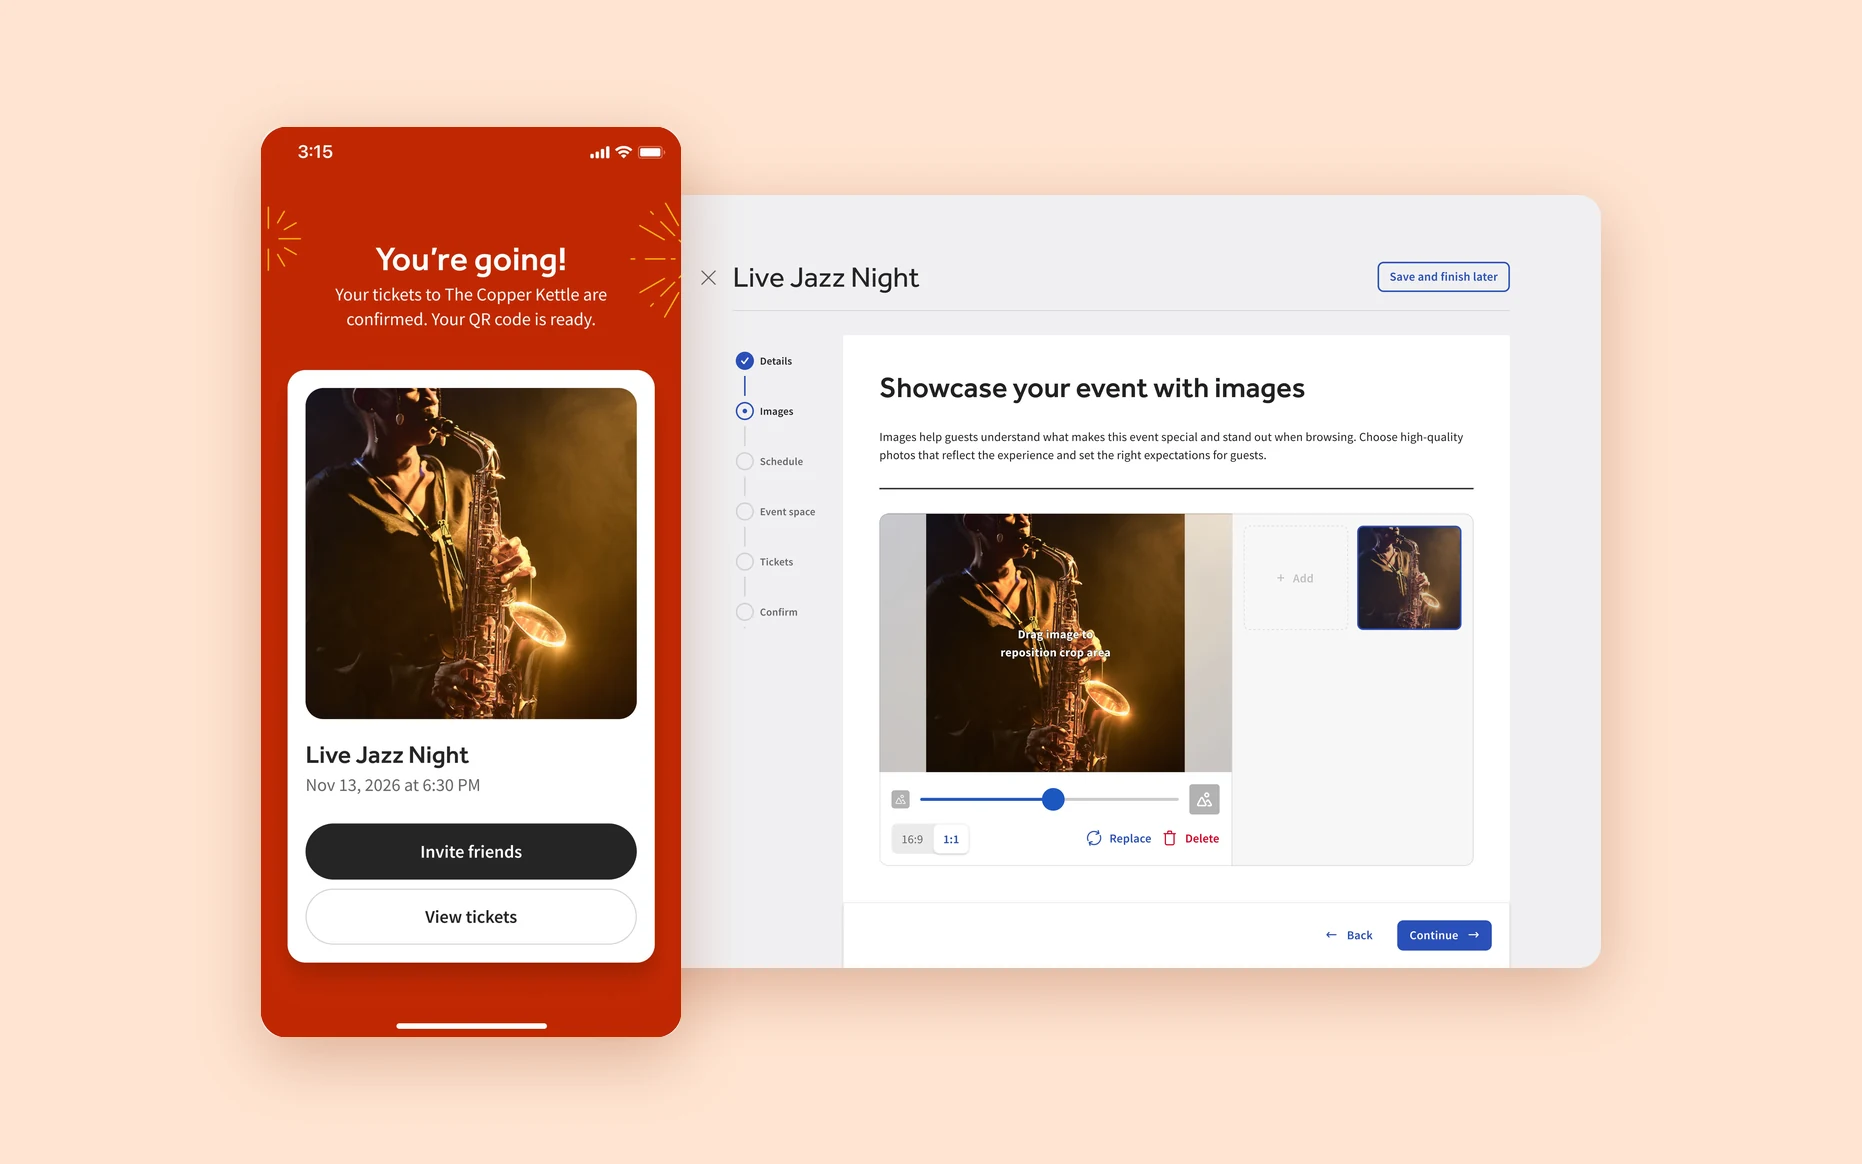
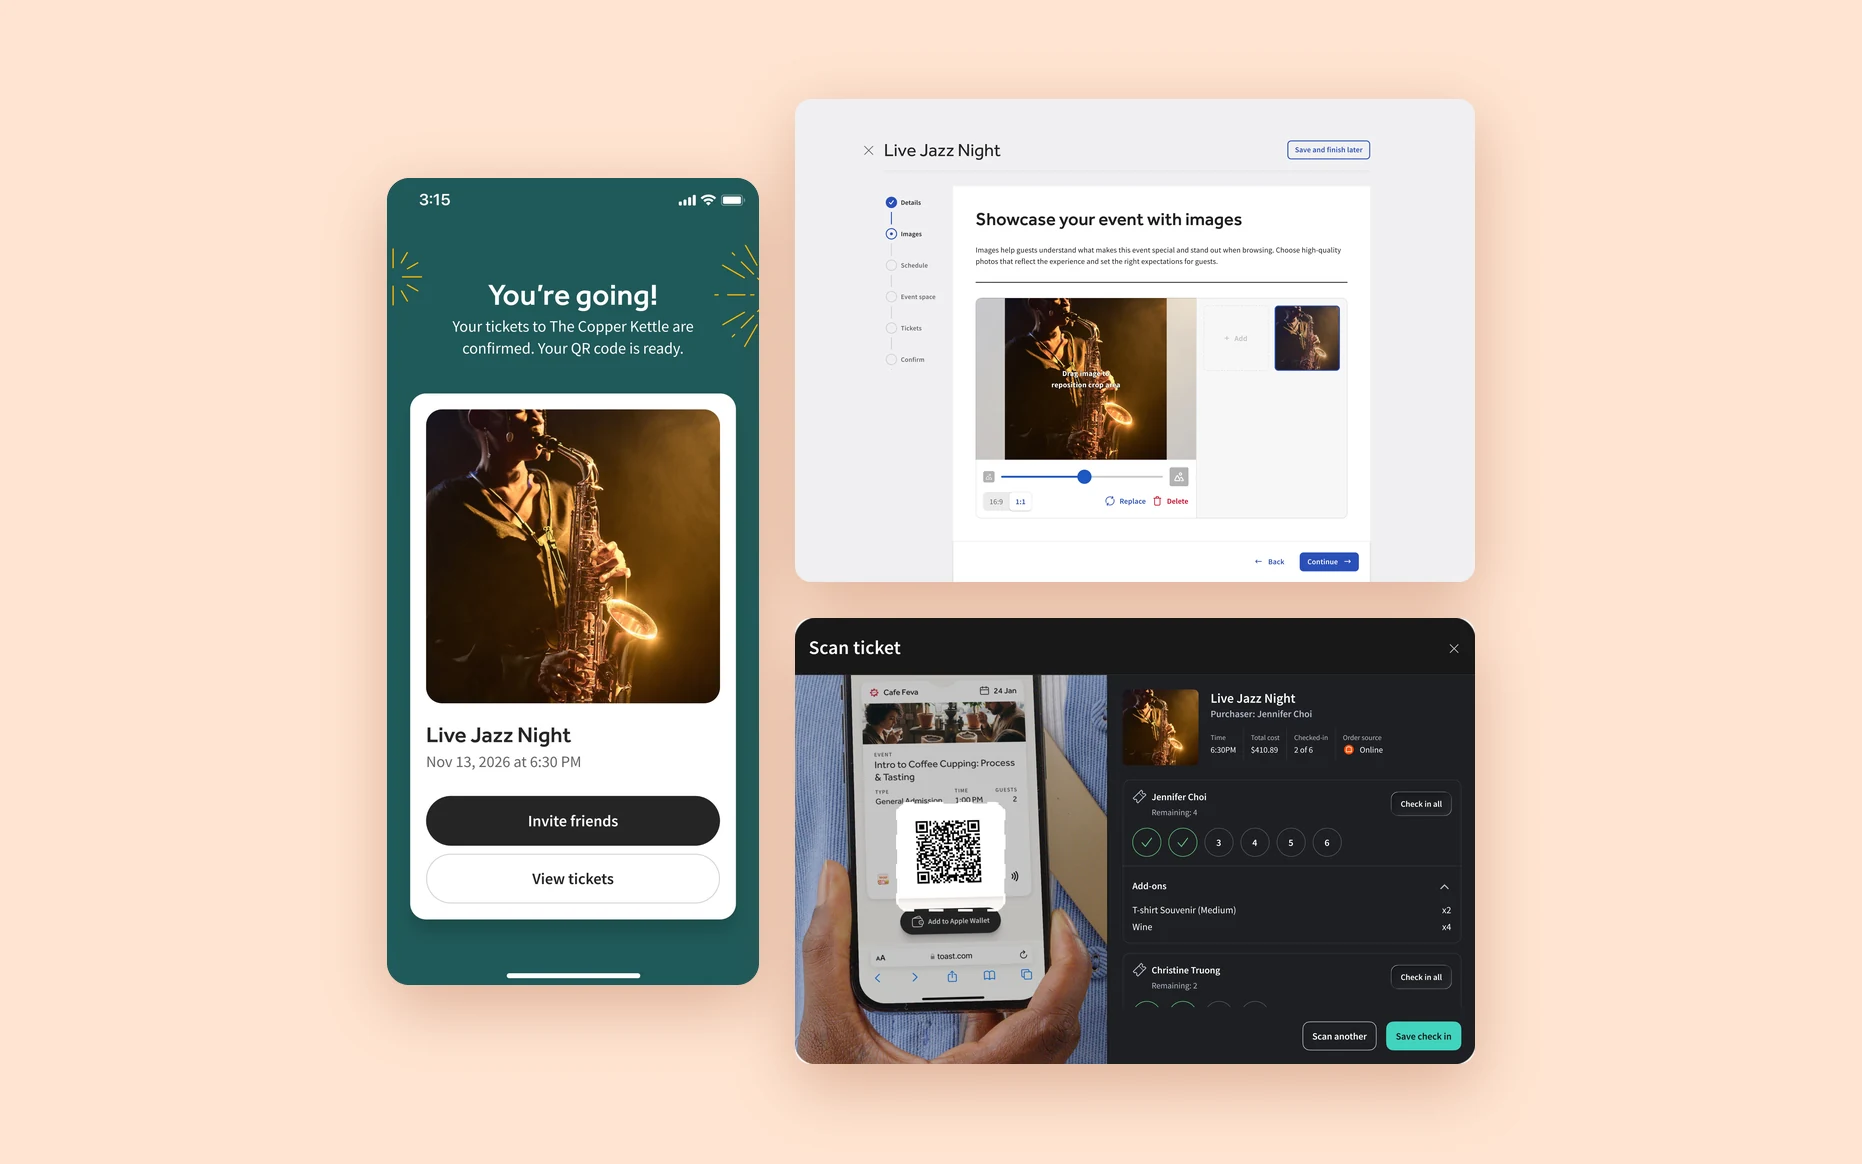
New Event Ticketing cover: guest confirmation, event setup and check-in
Claude-Session: https://claude.ai/code/session_01L6Cc1x5TrNVTPiYhATRg52

diff --git a/index.html b/index.html
@@ -595,7 +595,7 @@
         data-line="Bringing ticketed events to restaurants on Toast"
         data-stats='[{"text":"0 → 1","label":"new product"},{"v":100,"pre":"$","suf":"K+","label":"ticket sales"},{"v":150,"suf":"+","label":"restaurants selling"}]'>
         <button type="button" class="shot-btn">
-          <img class="media" src="images/event-ticketing.webp" width="1862" height="1164" alt="Event Ticketing on Toast: a restaurant adding photos while setting up Live Jazz Night, and a guest's You're going! confirmation with Invite friends and View tickets" loading="lazy" decoding="async">
+          <img class="media" src="images/event-ticketing.webp" width="1862" height="1164" alt="Event Ticketing on Toast: a guest's You're going! confirmation for Live Jazz Night, the restaurant adding event photos, and staff scanning tickets to check guests in" loading="lazy" decoding="async">
           <span class="pill"><b>Event Ticketing</b> <span>· Toast</span></span>
         </button>
       </figure>
